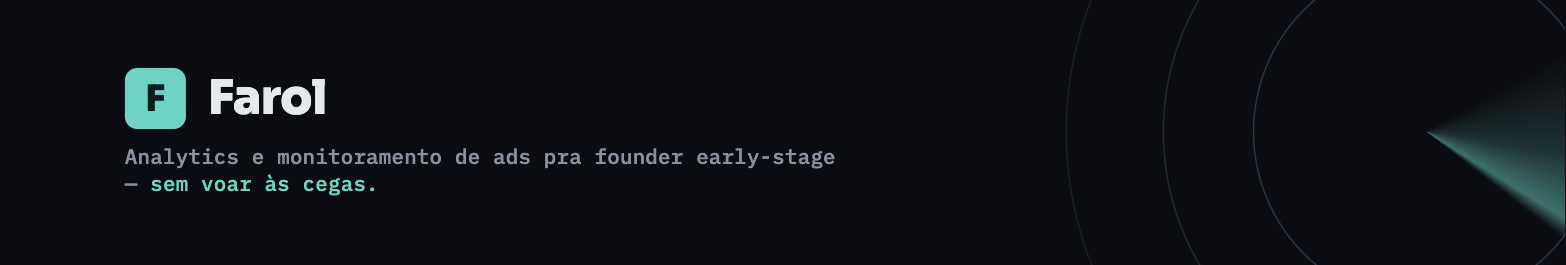
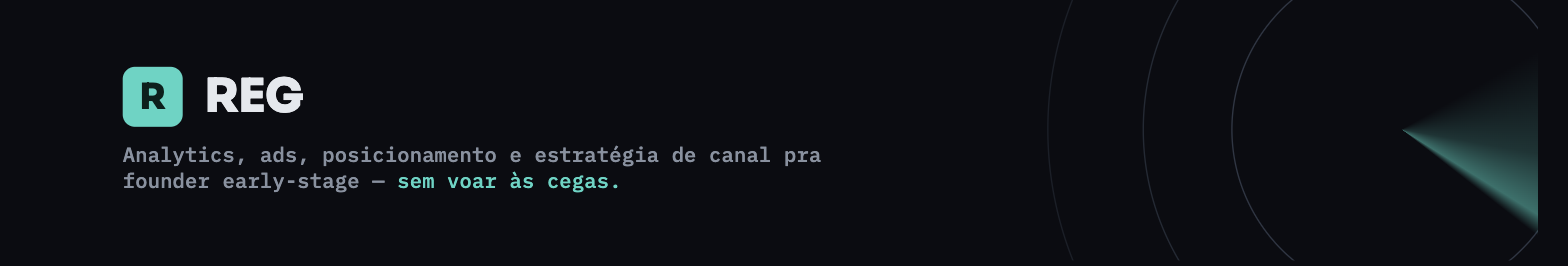
v4: renomeia Farol -> REG (Radar Estratégico de Growth)
- Rename global em todo o conteúdo (site, docs, Stripe): Farol -> REG
  (passou brevemente por FGS, corrigido em minutos por engano de digitação)
- Marca "R" (era "F") no favicon, logo, capa LinkedIn e OG image —
  reexportados via screenshot
- Nome completo "Radar Estratégico de Growth" explícito no nav (subtítulo)
  e na meta description
- Stripe: nome do produto Diagnóstico atualizado via API; descritor de
  fatura da conta segue precisando de troca manual no dashboard
  (FAROL -> REG, API não alcança essa configuração)
- docs/brand-tokens.md: nome novo elimina a ressalva "não é farol
  marítimo" que a fase anterior sempre precisou — REG já bate com a
  identidade visual de radar
- Pasta local e repo GitHub mantidos como "farol" de propósito, pra não
  quebrar URLs já publicadas (og:image, og:url) — só a marca visível mudou

diff --git a/index.html b/index.html
@@ -3,16 +3,16 @@
 <head>
 <meta charset="UTF-8" />
 <meta name="viewport" content="width=device-width, initial-scale=1.0" />
-<title>Farol</title>
+<title>REG</title>
 <link rel="icon" type="image/svg+xml" href="favicon.svg" />
-<meta name="description" content="Farol assume sua função de marketing e growth — analytics, ads, posicionamento e estratégia de canal — pra founder early-stage sem time de marketing." />
+<meta name="description" content="REG (Radar Estratégico de Growth) assume sua função de marketing e growth — analytics, ads, posicionamento e estratégia de canal — pra founder early-stage sem time de marketing." />
 <meta property="og:type" content="website" />
-<meta property="og:title" content="Farol" />
-<meta property="og:description" content="Marketing e growth não cabem mais nas horas vagas. Farol vira sua função de growth, sem contratar um CMO ou um time inteiro." />
+<meta property="og:title" content="REG" />
+<meta property="og:description" content="Marketing e growth não cabem mais nas horas vagas. REG vira sua função de growth, sem contratar um CMO ou um time inteiro." />
 <meta property="og:image" content="https://caioborges-05.github.io/farol/og-image.png" />
 <meta property="og:url" content="https://caioborges-05.github.io/farol/" />
 <meta name="twitter:card" content="summary_large_image" />
-<meta name="twitter:title" content="Farol" />
+<meta name="twitter:title" content="REG" />
 <meta name="twitter:description" content="Analytics, ads, posicionamento e estratégia de canal — pra founder early-stage sem time de marketing." />
 <meta name="twitter:image" content="https://caioborges-05.github.io/farol/og-image.png" />
 <style>
@@ -72,6 +72,8 @@
   .logo { display: flex; align-items: center; gap: 10px; text-decoration: none; }
   .logo-mark { width: 28px; height: 28px; background: var(--accent); border-radius: 4px; display: flex; align-items: center; justify-content: center; font-family: var(--font-display); font-weight: 800; font-size: 13px; color: var(--accent-ink); }
   .logo-text { font-family: var(--font-display); font-weight: 800; font-size: 16px; letter-spacing: -0.01em; }
+  .logo-full { font-family: var(--font-mono); font-size: 11px; color: var(--text-muted); padding-left: 10px; margin-left: 2px; border-left: 1px solid var(--border); }
+  @media (max-width: 640px) { .logo-full { display: none; } }
   .nav-cta { font-family: var(--font-mono); font-size: 12px; font-weight: 600; letter-spacing: 0.04em; text-decoration: none; color: var(--text-sec); padding: 8px 14px; border: 1px solid var(--border); border-radius: 6px; transition: border-color 0.15s, color 0.15s; }
   .nav-cta:hover { border-color: var(--accent-mid); color: var(--accent); }
 
@@ -233,8 +235,9 @@
   <nav>
     <div class="wrap nav-inner">
       <a class="logo" href="#">
-        <span class="logo-mark">F</span>
-        <span class="logo-text">Farol</span>
+        <span class="logo-mark">R</span>
+        <span class="logo-text">REG</span>
+        <span class="logo-full">Radar Estratégico de Growth</span>
       </a>
       <a class="nav-cta" href="#planos">Ver planos</a>
     </div>
@@ -255,7 +258,7 @@
         nas horas vagas. <span class="pop">Assuma isso direito.</span>
       </h1>
       <p class="hero-sub">
-        Farol vira sua função de growth — analytics, ads, posicionamento
+        REG vira sua função de growth — analytics, ads, posicionamento
         e estratégia de canal — pra você não precisar contratar um CMO
         ou um time inteiro que ainda não cabe no seu estágio.
       </p>
@@ -304,7 +307,7 @@
   <section class="section">
     <div class="wrap">
       <div class="section-head">
-        <div class="section-tag">Por que Farol e não a alternativa óbvia</div>
+        <div class="section-tag">Por que REG e não a alternativa óbvia</div>
         <h2>A conta que ninguém faz antes de decidir</h2>
       </div>
 
@@ -334,7 +337,7 @@
           <div class="diff-cell why">Cobra em dólar, resolve só medição — sem estratégia nem interpretação.</div>
         </div>
         <div class="diff-row you">
-          <div class="diff-cell alt">Farol</div>
+          <div class="diff-cell alt">REG</div>
           <div class="diff-cell why">Estratégia + execução + medição, com pessoa real interpretando, em BRL, sem compromisso de CLT nem contrato de agência.</div>
         </div>
       </div>
@@ -375,7 +378,7 @@
           <span class="tier-badge now">Comece aqui</span>
           <div class="tier-icon"><svg viewBox="0 0 24 24" fill="none" stroke="currentColor" stroke-width="1.6"><circle cx="12" cy="12" r="9"></circle><path d="M12 12l4.5-4.5"></path><circle cx="12" cy="12" r="1.4" fill="currentColor" stroke="none"></circle><path d="M12 5v1.4M19 12h-1.4M12 19v-1.4M5 12h1.4" stroke-width="1.2"></path></svg></div>
           <div class="tier-label">Diagnóstico</div>
-          <div class="tier-name">Farol Diagnóstico</div>
+          <div class="tier-name">REG Diagnóstico</div>
           <div class="tier-desc">Auditoria real do seu PostHog/GA4, conta de ads e landing page — mais uma leitura de posicionamento e fit de canal. O que está quebrado, onde o funil vaza, o que fazer primeiro.</div>
           <div class="tier-price"><span class="old">R$897</span><span class="now">R$497</span></div>
           <div class="tier-fine">pagamento único · entrega em dias</div>
@@ -386,11 +389,11 @@
           <span class="tier-badge wait">Venda assistida</span>
           <div class="tier-icon"><svg viewBox="0 0 24 24" fill="none" stroke="currentColor" stroke-width="1.6"><circle cx="12" cy="12" r="9"></circle><circle cx="12" cy="12" r="5.4"></circle><circle cx="12" cy="12" r="1.6" fill="currentColor" stroke="none"></circle></svg></div>
           <div class="tier-label">Gerenciado</div>
-          <div class="tier-name">Farol Gerenciado</div>
+          <div class="tier-name">REG Gerenciado</div>
           <div class="tier-desc">Sua função de growth rodando: analytics + ads + posicionamento + estratégia de canal + roadmap de experimentos. Acompanhamento contínuo, não um raio-x único.</div>
           <div class="tier-price"><span class="old">R$1.997</span><span class="now">R$1.497</span><span class="period">/mês</span></div>
           <div class="tier-fine">preço de lançamento · requer conversa antes de começar</div>
-          <a class="tier-cta" href="mailto:caio.borgesdeo@gmail.com?subject=Farol%20Gerenciado%20%E2%80%94%20agendar%20conversa&body=Quero%20agendar%20uma%20conversa%20sobre%20o%20Farol%20Gerenciado.">Agendar conversa</a>
+          <a class="tier-cta" href="mailto:caio.borgesdeo@gmail.com?subject=REG%20Gerenciado%20%E2%80%94%20agendar%20conversa&body=Quero%20agendar%20uma%20conversa%20sobre%20o%20REG%20Gerenciado.">Agendar conversa</a>
           <div class="slots-note"><span class="dot"></span>vagas limitadas por mês — atendimento pessoal, não escala em time</div>
         </div>
 
@@ -398,11 +401,11 @@
           <span class="tier-badge wait">Em breve</span>
           <div class="tier-icon"><svg viewBox="0 0 24 24" fill="none" stroke="currentColor" stroke-width="1.6"><circle cx="12" cy="12" r="9"></circle><path d="M12 7v5l3.2 2"></path></svg></div>
           <div class="tier-label">Starter</div>
-          <div class="tier-name">Farol Starter</div>
+          <div class="tier-name">REG Starter</div>
           <div class="tier-desc">Dashboard automatizado com alerta em tempo real, self-serve. Ainda não existe — entra na lista de espera.</div>
           <div class="tier-price"><span class="now">—</span></div>
           <div class="tier-fine">lista de espera</div>
-          <a class="tier-cta" href="mailto:caio.borgesdeo@gmail.com?subject=Farol%20Starter%20%E2%80%94%20lista%20de%20espera&body=Quero%20ser%20avisado%20quando%20o%20Farol%20Starter%20estiver%20dispon%C3%ADvel.">Entrar na lista</a>
+          <a class="tier-cta" href="mailto:caio.borgesdeo@gmail.com?subject=REG%20Starter%20%E2%80%94%20lista%20de%20espera&body=Quero%20ser%20avisado%20quando%20o%20REG%20Starter%20estiver%20dispon%C3%ADvel.">Entrar na lista</a>
         </div>
 
       </div>
@@ -423,7 +426,7 @@
 
   <footer>
     <div class="wrap">
-      <p>Farol · entrega em dias úteis · sem fidelidade no Gerenciado</p>
+      <p>REG · entrega em dias úteis · sem fidelidade no Gerenciado</p>
     </div>
   </footer>
 

diff --git a/docs/brand/cover.html b/docs/brand/cover.html
@@ -71,10 +71,10 @@
     <div class="sweep"></div>
     <div class="content">
       <div class="wordmark">
-        <div class="mark"><span>F</span></div>
-        <div class="name">Farol</div>
+        <div class="mark"><span>R</span></div>
+        <div class="name">REG</div>
       </div>
-      <div class="tagline">Analytics e monitoramento de ads pra founder early-stage — <strong>sem voar às cegas.</strong></div>
+      <div class="tagline">Analytics, ads, posicionamento e estratégia de canal pra founder early-stage — <strong>sem voar às cegas.</strong></div>
     </div>
   </div>
 </body>

diff --git a/docs/brand/og-image.html b/docs/brand/og-image.html
@@ -81,8 +81,8 @@
     <div class="sweep"></div>
     <div class="content">
       <div class="wordmark">
-        <div class="mark"><span>F</span></div>
-        <div class="name">Farol</div>
+        <div class="mark"><span>R</span></div>
+        <div class="name">REG</div>
       </div>
       <h1>Marketing e growth não cabem mais nas horas vagas. <span class="pop">Assuma isso direito.</span></h1>
       <div class="sub">Analytics, ads, posicionamento e estratégia de canal — pra founder early-stage sem time de marketing.</div>

diff --git a/docs/brand/logo.html b/docs/brand/logo.html
@@ -62,7 +62,7 @@
     <div class="ring r3"></div>
     <div class="sweep"></div>
     <div class="blip"></div>
-    <div class="mark"><span>F</span></div>
+    <div class="mark"><span>R</span></div>
   </div>
 </body>
 </html>

diff --git a/docs/positioning.md b/docs/positioning.md
@@ -1,8 +1,8 @@
-# Farol — Posicionamento
+# REG — Posicionamento
 
 Gerado com o framework JTBD de 6 partes (skill `value-proposition`). Um segmento só, de propósito — diluir entre "pequeno negócio" e "startup" enfraquece a mensagem.
 
-**v2 (2026-08-19):** o job to be done foi ampliado de propósito — de "audita analytics e ads" pra "assume a função de marketing/growth" — mantendo o mesmo segmento único. Isso é diferente da decisão de descartar o benchmark V4 (que era sobre puxar serviços de um público diferente): aqui o público continua o mesmo, o que muda é o tamanho do job que o Farol resolve pra ele. Ver changelog no fim do documento.
+**v2 (2026-08-19):** o job to be done foi ampliado de propósito — de "audita analytics e ads" pra "assume a função de marketing/growth" — mantendo o mesmo segmento único. Isso é diferente da decisão de descartar o benchmark V4 (que era sobre puxar serviços de um público diferente): aqui o público continua o mesmo, o que muda é o tamanho do job que o REG resolve pra ele. Ver changelog no fim do documento.
 
 ## 1. Quem
 
@@ -18,17 +18,17 @@ PostHog/GA4 mal configurado ou inexistente, dashboard que ninguém olha, planilh
 
 ## 4. Como (solução)
 
-Farol vira a função de growth do founder: analytics instrumentado direito + ads monitorados de verdade + clareza de posicionamento/mensagem + estratégia de canal + roadmap de experimentos + CRO — entregue por uma pessoa real interpretando o negócio, não um dashboard genérico nem um time de agência trabalhando em escala. Começa pelo Diagnóstico (baixo compromisso, auditoria técnica + leitura de posicionamento/canal), evolui pro Gerenciado (a função de growth rodando todo mês).
+REG vira a função de growth do founder: analytics instrumentado direito + ads monitorados de verdade + clareza de posicionamento/mensagem + estratégia de canal + roadmap de experimentos + CRO — entregue por uma pessoa real interpretando o negócio, não um dashboard genérico nem um time de agência trabalhando em escala. Começa pelo Diagnóstico (baixo compromisso, auditoria técnica + leitura de posicionamento/canal), evolui pro Gerenciado (a função de growth rodando todo mês).
 
 ## 5. Depois (resultado)
 
 Founder tem uma função de growth de verdade rodando — estratégia, execução e medição — sem contratar CMO ou montar um time cedo demais. Decide canal, mensagem e budget com direção clara, não reagindo semana a semana.
 
-## 6. Alternativas (e por que Farol vence)
+## 6. Alternativas (e por que REG vence)
 
 | Alternativa | Por que perde |
 |---|---|
-| Contratar CMO fracionado / head of growth | Caro (R$8-15k+/mês) e mais lento de contratar bem do que testar com o Farol primeiro |
+| Contratar CMO fracionado / head of growth | Caro (R$8-15k+/mês) e mais lento de contratar bem do que testar com o REG primeiro |
 | Agência full-service tradicional | Processo padronizado pra escala, pouca profundidade por cliente, pouca flexibilidade pro estágio inicial |
 | Fazer sozinho (o que já acontece hoje) | É literalmente o problema — marketing em rajada, sem processo |
 | Ferramenta self-serve internacional (Mixpanel, Madgicx) | Cobra em dólar, resolve só um pedaço (medição), sem estratégia nem interpretação |
@@ -36,26 +36,27 @@ Founder tem uma função de growth de verdade rodando — estratégia, execuçã
 
 ## Declaração de valor (1-2 frases)
 
-"Farol assume sua função de marketing e growth — analytics, ads, posicionamento e estratégia de canal — pra você não precisar contratar um CMO ou um time inteiro que ainda não cabe no seu estágio."
+"REG assume sua função de marketing e growth — analytics, ads, posicionamento e estratégia de canal — pra você não precisar contratar um CMO ou um time inteiro que ainda não cabe no seu estágio."
 
 ## Frase de posicionamento (marketing)
 
-"Pra founders early-stage sem time de marketing: Farol é a função de growth que você ainda não pode contratar — estratégia, execução e medição, com uma pessoa real por trás, não um dashboard genérico nem uma agência trabalhando em escala."
+"Pra founders early-stage sem time de marketing: REG é a função de growth que você ainda não pode contratar — estratégia, execução e medição, com uma pessoa real por trás, não um dashboard genérico nem uma agência trabalhando em escala."
 
 ## Como isso vira produto (fases)
 
-1. **Diagnóstico Farol** — R$497 (âncora R$897), pagamento único. Auditoria técnica (PostHog/GA + ads + landing page/CRO) **e** leitura de posicionamento/fit de canal — relatório do que está quebrado e o que fazer. Entrega manual, 100% viável hoje. Garantia de 3 problemas reais ou reembolso.
-2. **Farol Gerenciado** — **R$1.497/mês** (preço de lançamento, sobe pra R$1.997 depois), venda assistida (call de onboarding). Função de growth completa: analytics + ads + estratégia de canal/conteúdo + posicionamento + roadmap de experimentos. Entrega manual.
-3. **Farol Starter** — self-serve, dashboard automatizado com alerta. **Não existe ainda** — mesma classe de trabalho de engenharia que o motor de ranking do Winlist exigia. Fica em lista de espera, não é vendido até estar construído (mesmo motivo do Tracker/Pro no Winlist: não vender o que não existe).
+1. **Diagnóstico REG** — R$497 (âncora R$897), pagamento único. Auditoria técnica (PostHog/GA + ads + landing page/CRO) **e** leitura de posicionamento/fit de canal — relatório do que está quebrado e o que fazer. Entrega manual, 100% viável hoje. Garantia de 3 problemas reais ou reembolso.
+2. **REG Gerenciado** — **R$1.497/mês** (preço de lançamento, sobe pra R$1.997 depois), venda assistida (call de onboarding). Função de growth completa: analytics + ads + estratégia de canal/conteúdo + posicionamento + roadmap de experimentos. Entrega manual.
+3. **REG Starter** — self-serve, dashboard automatizado com alerta. **Não existe ainda** — mesma classe de trabalho de engenharia que o motor de ranking do Winlist exigia. Fica em lista de espera, não é vendido até estar construído (mesmo motivo do Tracker/Pro no Winlist: não vender o que não existe).
 
 ## Decisão registrada: o que não incorporar (benchmark V4 Company)
 
 Analisamos o catálogo da V4 Company (maior rede de marketing digital do Brasil — 7 soluções × 4 modelos = 35 combinações) como benchmark de mercado. Incorporado: auditoria de landing page/CRO + mystery shopper opcional no Diagnóstico (ver `docs/diagnostico-playbook.md`), porque fecha o funil que a auditoria de ads/analytics já cobre.
 
-**Descartado de propósito:** diagnóstico de Google Meu Negócio, sequência de WhatsApp pra loja física, scripts de SDR AI-first, e o modelo de catálogo amplo em si. Motivo: o público validado da V4 é comércio local/tradicional — diferente do segmento único do Farol (founder early-stage de produto digital). Ampliar catálogo pra parecer com a V4 dilui exatamente o posicionamento que o framework de 6 partes existe pra proteger. Não reabrir essa decisão sem uma razão nova e específica.
+**Descartado de propósito:** diagnóstico de Google Meu Negócio, sequência de WhatsApp pra loja física, scripts de SDR AI-first, e o modelo de catálogo amplo em si. Motivo: o público validado da V4 é comércio local/tradicional — diferente do segmento único do REG (founder early-stage de produto digital). Ampliar catálogo pra parecer com a V4 dilui exatamente o posicionamento que o framework de 6 partes existe pra proteger. Não reabrir essa decisão sem uma razão nova e específica.
 
 ## Changelog
 
 - **v1 (2026-08-19, manhã):** escopo = analytics + monitoramento de ads. Gerenciado R$697/mês.
 - **v2 (2026-08-19, tarde):** escopo ampliado por decisão explícita do fundador — de "audita ads/analytics" pra "assume a função de marketing/growth" — mesmo segmento (founder early-stage sem time de marketing). Gerenciado reprecificado pra R$1.497/mês, refletindo o escopo maior (cobrar o mesmo preço por 3x mais trabalho desvaloriza o serviço).
 - **v3 (2026-08-19, tarde):** Diagnóstico reprecificado de R$297 pra R$497 (âncora R$897) — mesmo motivo do Gerenciado, mais o fato de agora ancorar prova social real (LinkedIn: 20+ anos, 30k+ seguidores, MBA Data Science/ML/IA). Site ganhou seção de credenciais, ícones de instrumento por plano, caixa de custo de inação quantificado, comparação vs. CMO fracionado, garantia e nota de vagas limitadas.
+- **v4 (2026-08-19, tarde):** renomeado de "Farol" pra **REG — Radar Estratégico de Growth**. Passou por "FGS" no meio do caminho (revertido em minutos, por engano de digitação do fundador). O nome novo encaixa melhor com a identidade visual já existente (radar) — a fase Farol sempre precisava de uma ressalva pra não soar como farol marítimo; REG não precisa. Marca visível (site, Stripe, docs) trocada; pasta local `~/farol` e repo `CaioBorges-05/farol` no GitHub mantidos como estão, de propósito, pra não quebrar URLs já publicadas (og:image, og:url).

diff --git a/docs/posting-style-guide.md b/docs/posting-style-guide.md
@@ -1,12 +1,12 @@
-# Farol — Guia de estilo de postagem (LinkedIn)
+# REG — Guia de estilo de postagem (LinkedIn)
 
 Derivado de `docs/positioning.md` e `docs/brand-tokens.md`. Objetivo: toda postagem devia poder ser lida em voz alta como se fosse um founder falando pra outro founder, não uma agência falando pra um lead.
 
-**Atualização v2:** o escopo do Farol ampliou de "analytics + ads" pra "função de marketing/growth completa" (ver changelog em `docs/positioning.md`). Os 5 posts já escritos continuam válidos (são subtemas reais dentro do escopo novo), mas a partir daqui a pauta deve variar entre os 4 pilares: analytics, ads, posicionamento/mensagem, e estratégia de canal — não travar só em analytics/ads como nos primeiros 5.
+**Atualização v2:** o escopo do REG ampliou de "analytics + ads" pra "função de marketing/growth completa" (ver changelog em `docs/positioning.md`). Os 5 posts já escritos continuam válidos (são subtemas reais dentro do escopo novo), mas a partir daqui a pauta deve variar entre os 4 pilares: analytics, ads, posicionamento/mensagem, e estratégia de canal — não travar só em analytics/ads como nos primeiros 5.
 
 ## Voz
 
-- **1ª pessoa, direto.** "Eu vejo", "eu fiz", nunca "a Farol acredita que..." — o formato é Thought Leader Ads, a credibilidade é da pessoa, não da marca.
+- **1ª pessoa, direto.** "Eu vejo", "eu fiz", nunca "a REG acredita que..." — o formato é Thought Leader Ads, a credibilidade é da pessoa, não da marca.
 - **Frase curta, parágrafo curto.** Quebra de linha frequente — é assim que o LinkedIn prefere renderizar (retenção no app) e como thought leadership de verdade se lê.
 - **Sem hashtag em excesso.** No máximo 1-2, só se genuinamente relevante — spam de hashtag lê como conta de agência, não como pessoa.
 - **Sem emoji decorativo.** No máximo um, se ajudar a escanear uma lista — nunca emoji de "efeito" (🚀🔥💯).

diff --git a/docs/diagnostico-playbook.md b/docs/diagnostico-playbook.md
@@ -1,4 +1,4 @@
-# Farol — Playbook do Diagnóstico
+# REG — Playbook do Diagnóstico
 
 Processo interno de execução do Diagnóstico (R$297). Objetivo: entregar um relatório real em até 3 dias úteis após receber acesso, que sirva como prova de valor pro upsell natural pro Gerenciado.
 
@@ -39,7 +39,7 @@ Checklist — marcar cada item como OK / QUEBRADO / AUSENTE:
 
 ## 3. Auditoria de landing page / CRO
 
-Fecha o funil que a auditoria de ads deixa em aberto — de nada adianta clique bem trackeado numa página que vaza. Referência: prática validada em escala pela V4 Company (maior rede de marketing digital do Brasil), adaptada ao escopo do Farol.
+Fecha o funil que a auditoria de ads deixa em aberto — de nada adianta clique bem trackeado numa página que vaza. Referência: prática validada em escala pela V4 Company (maior rede de marketing digital do Brasil), adaptada ao escopo do REG.
 
 - [ ] **Promessa do anúncio bate com a página** — o criativo/copy do anúncio promete a mesma coisa que a landing page entrega logo no topo? Divergência aqui é a causa nº1 de clique caro sem conversão.
 - [ ] **CTA único e claro** — a página tem um caminho de conversão óbvio, ou compete consigo mesma com múltiplos CTAs concorrentes?
@@ -62,7 +62,7 @@ Entregar como página/documento, seguindo esta ordem (achado mais crítico prime
 ## Template — e-mail de coleta de acesso
 
 ```
-Assunto: Farol — acesso pra começar seu Diagnóstico
+Assunto: REG — acesso pra começar seu Diagnóstico
 
 Oi [nome],
 

diff --git a/docs/brand-tokens.md b/docs/brand-tokens.md
@@ -1,6 +1,6 @@
-# Farol — Identidade Visual
+# REG — Identidade Visual
 
-Direção: instrumento de aviação, não farol marítimo. A ideia central é "painel de voo do seu crescimento" — cockpit, radar, torre de controle, não litoral/navio. A copy precisa reforçar isso ativamente (ver `docs/positioning.md`), porque o nome sozinho puxa pra farol de navio.
+**REG = Radar Estratégico de Growth.** Direção: instrumento de aviação/radar — cockpit, varredura, torre de controle. Diferente da fase "Farol" do projeto, o nome agora bate direto com a identidade visual (radar) — não precisa mais de ressalva pra afastar associação com farol marítimo.
 
 ## Conceito
 
@@ -44,7 +44,7 @@ Em ambientes que bloqueiam fonte externa (preview de artifact), cai numa pilha d
 - **Cards de instrumento**: painel com borda fina, cantos levemente technical (não totalmente arredondado, mais "display de vidro" que "app fofo").
 - **Badge de status semântico**: pequeno indicador colorido (âmbar/vermelho/verde) + label mono uppercase — pensado pra já parecer o componente real de alerta do produto.
 
-## Aplicação no Farol
+## Aplicação no REG
 
-- Wordmark: `Farol` em Sora 700-800.
+- Wordmark: `REG` em Sora 700-800.
 - Diferente do Winlist (lima em preto neutro), aqui é ciano frio em preto azulado — precisa ler como "instrumento sério", não "app de dropshipping animado".

diff --git a/README.md b/README.md
@@ -1,8 +1,8 @@
-# Farol
+# REG
 
 Função de marketing e growth pra founder early-stage BR que ainda não tem time de marketing dedicado — analytics, ads, posicionamento e estratégia de canal.
 
-**PUV (v2):** Farol assume sua função de marketing e growth — analytics, ads, posicionamento e estratégia de canal — pra você não precisar contratar um CMO ou um time inteiro que ainda não cabe no seu estágio.
+**PUV (v2):** REG assume sua função de marketing e growth — analytics, ads, posicionamento e estratégia de canal — pra você não precisar contratar um CMO ou um time inteiro que ainda não cabe no seu estágio.
 
 Ver `docs/positioning.md` (framework JTBD completo, com changelog v1→v2) e `docs/brand-tokens.md` (identidade visual, direção de aviação/cockpit).
 
@@ -22,4 +22,4 @@ Landing page (`index.html`) e Stripe do Diagnóstico prontos. Falta:
 
 ## Winlist
 
-O projeto anterior (`~/winlist`) está **pausado/arquivado** — não descontinuado, mas sem desenvolvimento ativo. Foco total no Farol.
+O projeto anterior (`~/winlist`) está **pausado/arquivado** — não descontinuado, mas sem desenvolvimento ativo. Foco total no REG.

diff --git a/docs/stripe-setup.md b/docs/stripe-setup.md
@@ -1,4 +1,4 @@
-# Farol — Stripe
+# REG — Stripe
 
 Conta: `acct_1TPZ5OKtWahGMnv9` ("Caio Borges"), **modo live** (mesma conta do Winlist).
 
@@ -6,7 +6,7 @@ Conta: `acct_1TPZ5OKtWahGMnv9` ("Caio Borges"), **modo live** (mesma conta do Wi
 
 | Item | Produto ID | Preço | Price ID |
 |---|---|---|---|
-| Farol Diagnóstico | `prod_V6LzhZi4RDCuJk` | R$497,00 (BRL, pagamento único) | `price_1U6DJxKtWahGMnv9OBnQKFRl` |
+| REG Diagnóstico | `prod_V6LzhZi4RDCuJk` | R$497,00 (BRL, pagamento único) | `price_1U6DJxKtWahGMnv9OBnQKFRl` |
 
 **Payment Link ativo:** `plink_1U6DKOKtWahGMnv9TtkNQm8E` → https://buy.stripe.com/9B628s2xe9xk4wG2HI6Ri02 — funcionando de verdade, cartão. Pix/boleto não ativados (mesma pendência do Winlist).
 
